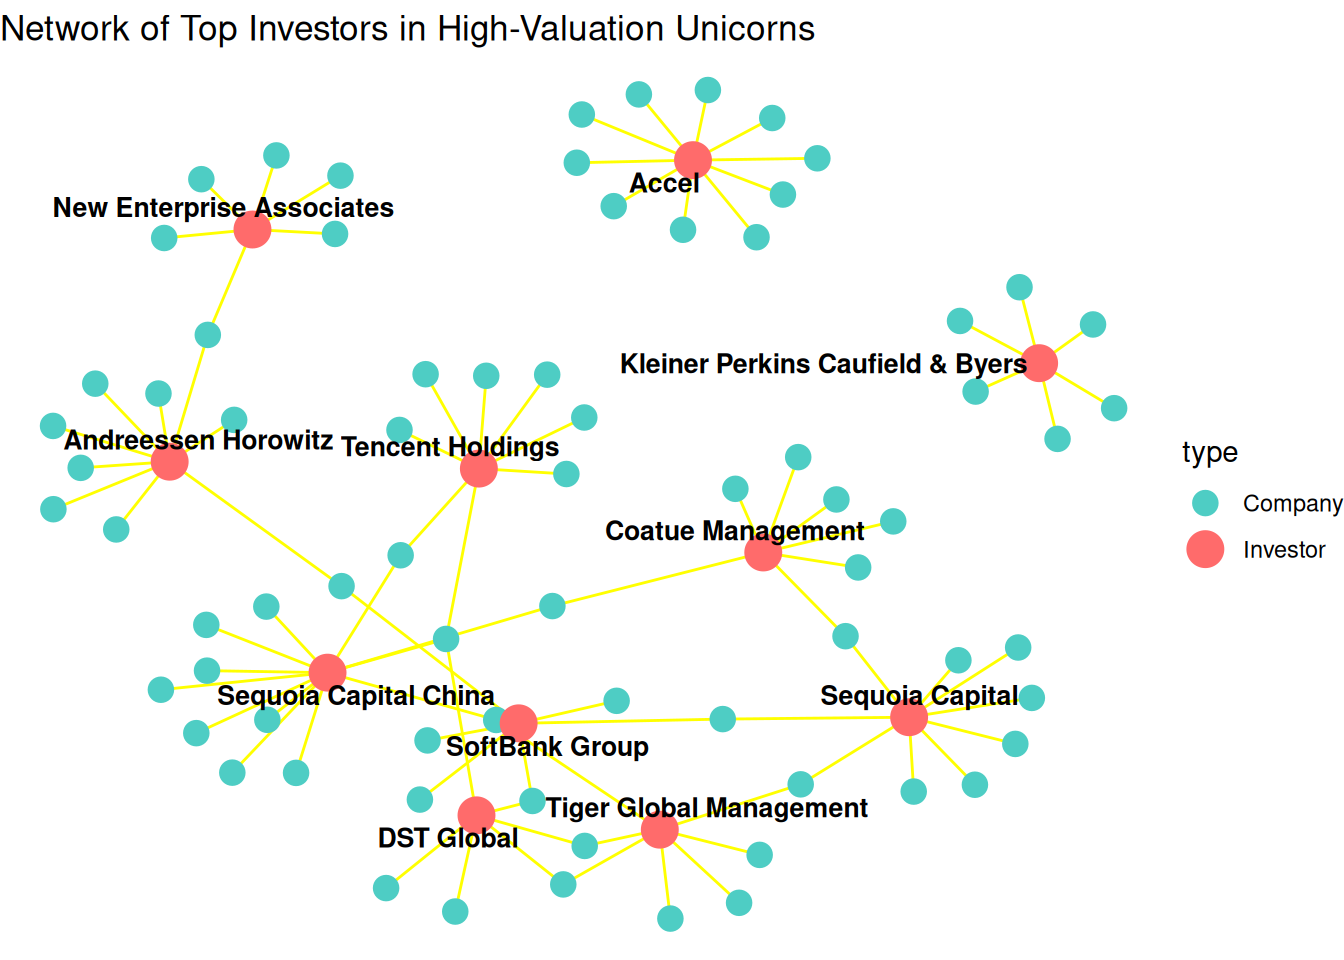
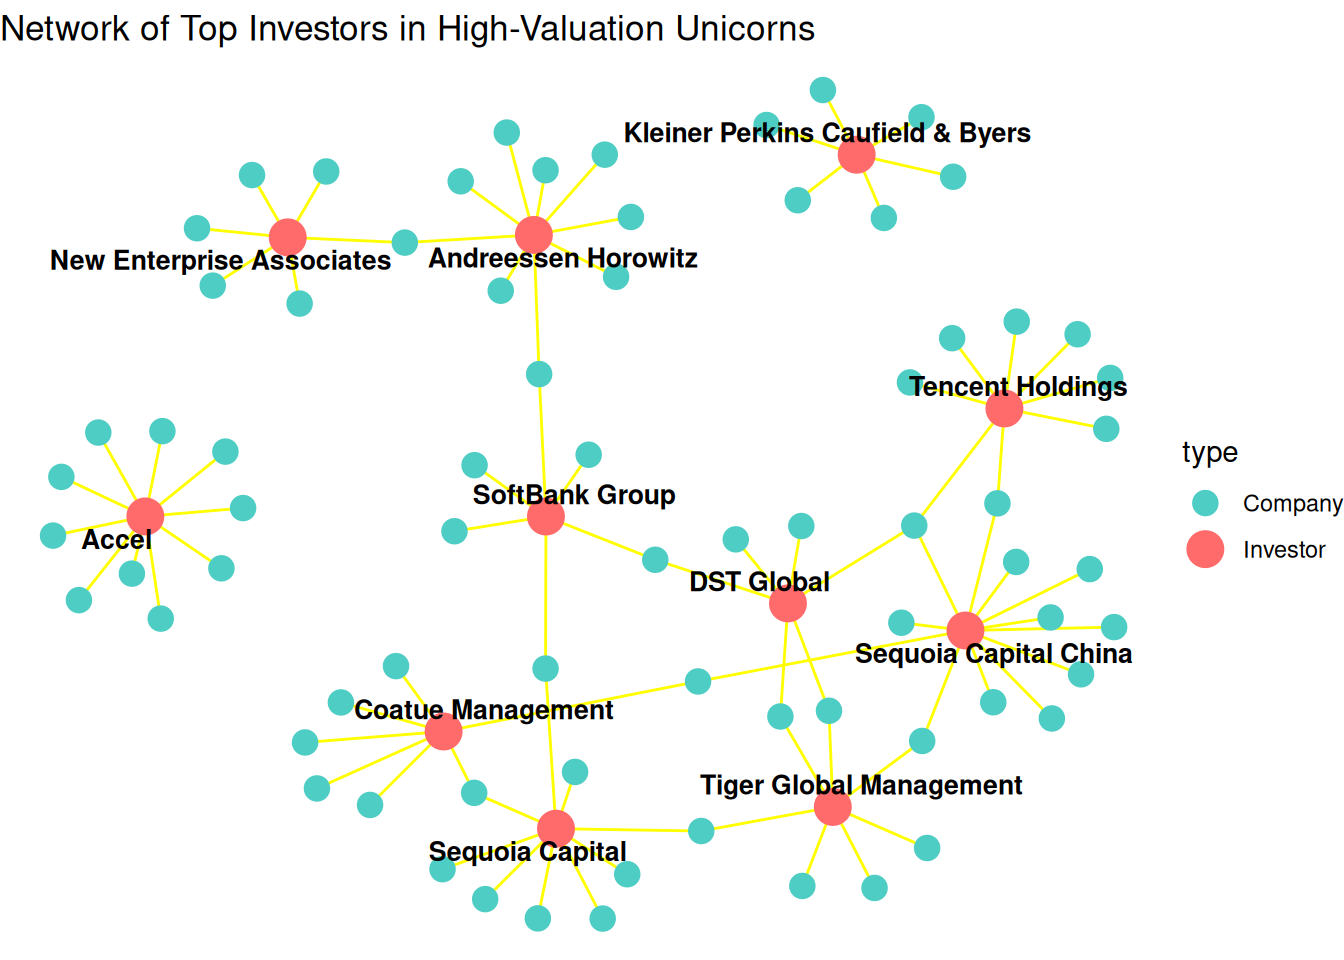
Update README files: Simplify Tableau visualization description and enhance data quality checks; update growth rate and investor network visualizations.

Changed region(s): [[0.0312, 0.0625, 0.8438, 0.9688], [0.2812, 0.5625, 0.3125, 0.5938], [0.125, 0.75, 0.1562, 0.7812]]

diff --git a/readme.html b/readme.html
@@ -247,7 +247,7 @@ window.Quarto = {
 <li><strong>Excel:</strong> Data entry, validation, and complex string manipulation to convert string values like <code>$8B</code> into integer values.</li>
 <li><strong>SQL:</strong> Structured querying and aggregation of the 1000+ company dataset.</li>
 <li><strong>R:</strong> Converting data from wide to long format, statistical analysis and R Markdown reporting.</li>
-<li><strong>Tableau:</strong> [Link to Dashboard] Interactive visualization of investor networks.</li>
+<li><strong>Tableau:</strong> Interactive visualization.</li>
 </ul>
 </section>
 <section id="key-performance-indicators-kpis" class="level2">
@@ -405,7 +405,7 @@ window.Quarto = {
 <p><em>Goal: Use R to uncover statistical relationships, validate assumptions, and extract non-obvious structure from the global unicorn dataset through rigorous exploratory and inferential analysis.</em></p>
 <section id="preaparation" class="level2">
 <h2 class="anchored" data-anchor-id="preaparation">Preaparation</h2>
-<p>Load the necessary libraries, a function to format large numbers, set the working directory, load the datasets and calculate time to unicorn status.</p>
+<p>Load the necessary libraries, a function to format large numbers, set the working directory, load the datasets,calculate time to unicorn status and check the quality of the data.</p>
 <div class="cell">
 <div class="code-copy-outer-scaffold"><div class="sourceCode cell-code" id="cb7"><pre class="sourceCode r code-with-copy"><code class="sourceCode r"><span id="cb7-1"><a href="#cb7-1" aria-hidden="true" tabindex="-1"></a><span class="fu">library</span>(tidyverse)</span>
 <span id="cb7-2"><a href="#cb7-2" aria-hidden="true" tabindex="-1"></a><span class="fu">library</span>(scales)</span>
@@ -1486,8 +1486,8 @@ Conclusion:  NO significant difference found (fail to reject null hypothesis) </
 <span id="cb59-33"><a href="#cb59-33" aria-hidden="true" tabindex="-1"></a>    <span class="at">colourScale =</span> <span class="fu">JS</span>(<span class="st">"d3.scaleOrdinal(d3.schemeCategory20);"</span>)</span>
 <span id="cb59-34"><a href="#cb59-34" aria-hidden="true" tabindex="-1"></a>)</span></code></pre></div><button title="Copy to Clipboard" class="code-copy-button"><i class="bi"></i></button></div>
 <div class="cell-output-display">
-<div class="sankeyNetwork html-widget html-fill-item" id="htmlwidget-c967a81851dead1c7901" style="width:100%;height:464px;"></div>
-<script type="application/json" data-for="htmlwidget-c967a81851dead1c7901">{"x":{"links":{"source":[0,0,0,0,0,0,0,0,0,0,0,1,1,1,1,1,1,1,1,1,1,1,1,1,2,2,2,2,2,2,2,2,2,3,3,3,3,3,3,3,3,3,3,4,4,4,4,4,4,4,4,4,5,5,5,5,5,5,5,5,5,5,5,6,6,6,6,6,6,6,6,6,6,6,6,6,7,7,7,7,7,7,7,7,7,7,7,7,7,7,8,8,8,8,8,8,8,8,8,8,8,8,9,9,9,9,9,9,9,9,9,9,9,9,9],"target":[10,11,12,13,14,15,16,17,18,19,20,21,10,11,12,13,15,22,16,17,18,19,20,23,10,11,12,13,15,16,17,19,20,10,24,11,12,13,15,16,17,18,20,10,11,12,13,14,15,16,17,18,10,25,11,12,13,15,16,17,18,20,23,21,10,24,11,12,13,15,22,16,17,18,19,20,21,10,24,25,13,14,15,22,16,17,18,19,20,23,10,24,11,12,13,15,16,17,18,19,20,23,21,10,24,25,11,13,14,15,22,16,17,18,19],"value":[2,4,2,9,2,14,3,19,1,2,2,2,3,2,6,5,10,1,3,13,2,2,3,1,1,2,3,3,7,7,8,2,1,1,1,3,2,1,7,2,12,1,2,4,7,4,1,1,11,2,15,2,2,1,6,5,1,5,2,9,1,1,1,1,1,1,3,4,5,9,3,4,11,2,1,2,1,8,1,2,9,5,3,3,3,5,2,2,3,1,1,4,2,1,9,6,1,4,1,1,3,1,1,2,1,3,1,5,2,16,2,1,16,2,1]},"nodes":{"name":["Accel","Andreessen Horowitz","General Catalyst","Index Ventures","Insight Partners","Lightspeed Venture Partners","Sequoia Capital","Sequoia Capital China","SoftBank Group","Tiger Global Management","Artificial intelligence","Cybersecurity","Data management & analytics","E-commerce & direct-to-consumer","Edtech","Fintech","Health","Internet software & services","Mobile & telecommunications","Other","Supply chain, logistics, & delivery","Artificial Intelligence","Hardware","Travel","Auto & transportation","Consumer & retail"],"group":["Accel","Andreessen Horowitz","General Catalyst","Index Ventures","Insight Partners","Lightspeed Venture Partners","Sequoia Capital","Sequoia Capital China","SoftBank Group","Tiger Global Management","Artificial intelligence","Cybersecurity","Data management & analytics","E-commerce & direct-to-consumer","Edtech","Fintech","Health","Internet software & services","Mobile & telecommunications","Other","Supply chain, logistics, & delivery","Artificial Intelligence","Hardware","Travel","Auto & transportation","Consumer & retail"]},"options":{"NodeID":"name","NodeGroup":"name","LinkGroup":null,"colourScale":"d3.scaleOrdinal(d3.schemeCategory20);","fontSize":12,"fontFamily":null,"nodeWidth":20,"nodePadding":10,"units":"investments","margin":{"top":null,"right":null,"bottom":null,"left":null},"iterations":0,"sinksRight":false}},"evals":[],"jsHooks":[]}</script>
+<div class="sankeyNetwork html-widget html-fill-item" id="htmlwidget-e815b8053a9585a5d8e5" style="width:100%;height:464px;"></div>
+<script type="application/json" data-for="htmlwidget-e815b8053a9585a5d8e5">{"x":{"links":{"source":[0,0,0,0,0,0,0,0,0,0,0,1,1,1,1,1,1,1,1,1,1,1,1,1,2,2,2,2,2,2,2,2,2,3,3,3,3,3,3,3,3,3,3,4,4,4,4,4,4,4,4,4,5,5,5,5,5,5,5,5,5,5,5,6,6,6,6,6,6,6,6,6,6,6,6,6,7,7,7,7,7,7,7,7,7,7,7,7,7,7,8,8,8,8,8,8,8,8,8,8,8,8,9,9,9,9,9,9,9,9,9,9,9,9,9],"target":[10,11,12,13,14,15,16,17,18,19,20,21,10,11,12,13,15,22,16,17,18,19,20,23,10,11,12,13,15,16,17,19,20,10,24,11,12,13,15,16,17,18,20,10,11,12,13,14,15,16,17,18,10,25,11,12,13,15,16,17,18,20,23,21,10,24,11,12,13,15,22,16,17,18,19,20,21,10,24,25,13,14,15,22,16,17,18,19,20,23,10,24,11,12,13,15,16,17,18,19,20,23,21,10,24,25,11,13,14,15,22,16,17,18,19],"value":[2,4,2,9,2,14,3,19,1,2,2,2,3,2,6,5,10,1,3,13,2,2,3,1,1,2,3,3,7,7,8,2,1,1,1,3,2,1,7,2,12,1,2,4,7,4,1,1,11,2,15,2,2,1,6,5,1,5,2,9,1,1,1,1,1,1,3,4,5,9,3,4,11,2,1,2,1,8,1,2,9,5,3,3,3,5,2,2,3,1,1,4,2,1,9,6,1,4,1,1,3,1,1,2,1,3,1,5,2,16,2,1,16,2,1]},"nodes":{"name":["Accel","Andreessen Horowitz","General Catalyst","Index Ventures","Insight Partners","Lightspeed Venture Partners","Sequoia Capital","Sequoia Capital China","SoftBank Group","Tiger Global Management","Artificial intelligence","Cybersecurity","Data management & analytics","E-commerce & direct-to-consumer","Edtech","Fintech","Health","Internet software & services","Mobile & telecommunications","Other","Supply chain, logistics, & delivery","Artificial Intelligence","Hardware","Travel","Auto & transportation","Consumer & retail"],"group":["Accel","Andreessen Horowitz","General Catalyst","Index Ventures","Insight Partners","Lightspeed Venture Partners","Sequoia Capital","Sequoia Capital China","SoftBank Group","Tiger Global Management","Artificial intelligence","Cybersecurity","Data management & analytics","E-commerce & direct-to-consumer","Edtech","Fintech","Health","Internet software & services","Mobile & telecommunications","Other","Supply chain, logistics, & delivery","Artificial Intelligence","Hardware","Travel","Auto & transportation","Consumer & retail"]},"options":{"NodeID":"name","NodeGroup":"name","LinkGroup":null,"colourScale":"d3.scaleOrdinal(d3.schemeCategory20);","fontSize":12,"fontFamily":null,"nodeWidth":20,"nodePadding":10,"units":"investments","margin":{"top":null,"right":null,"bottom":null,"left":null},"iterations":0,"sinksRight":false}},"evals":[],"jsHooks":[]}</script>
 </div>
 </div>
 </section>
